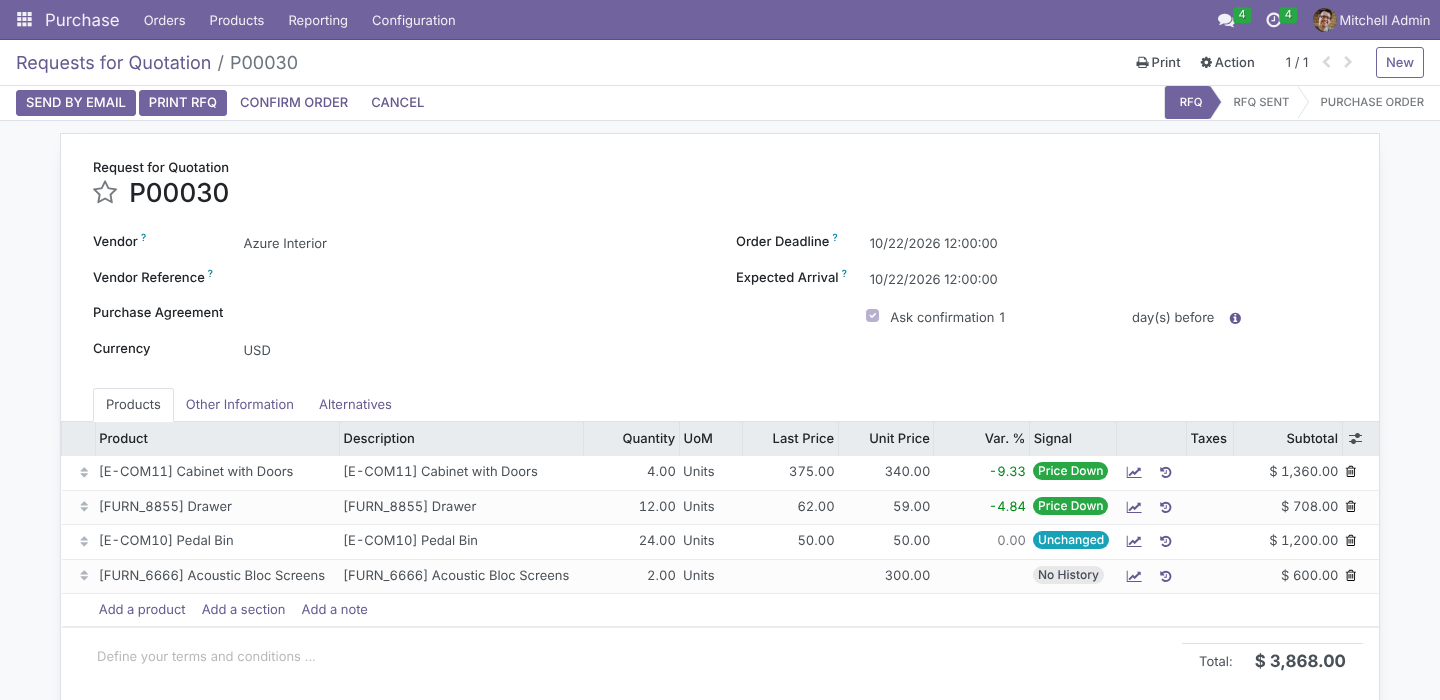
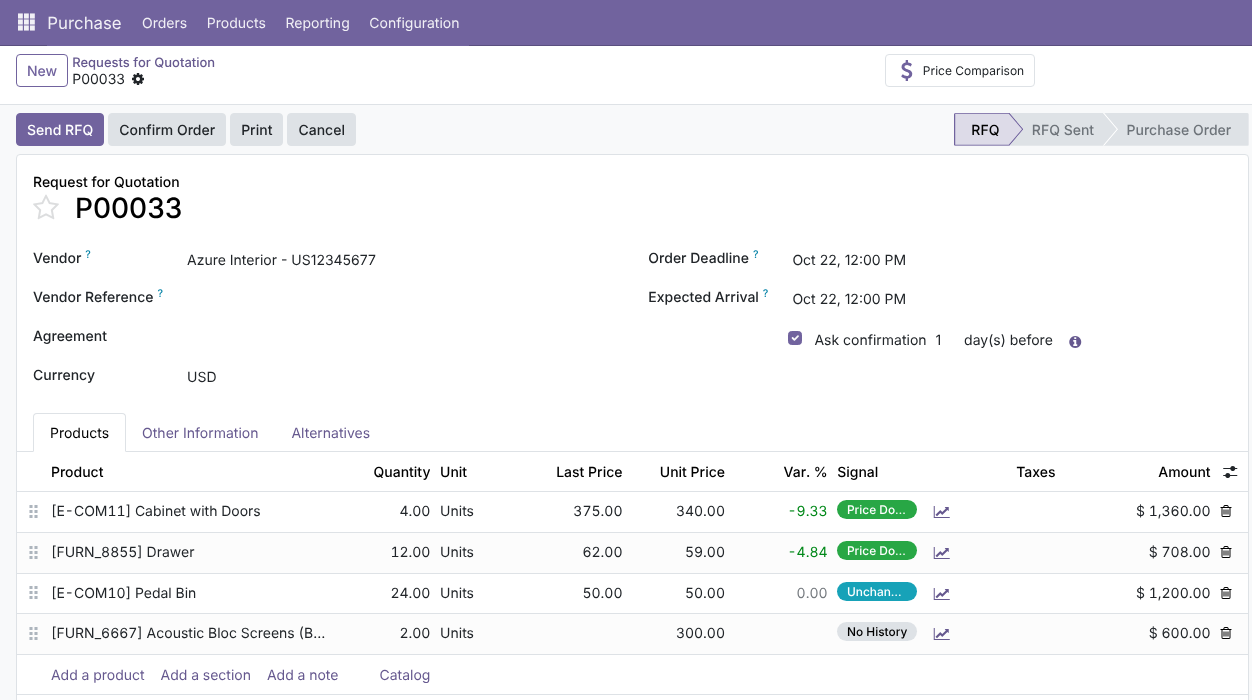
Add files via upload

diff --git a/last_purchase_price_advanced/static/description/index.html b/last_purchase_price_advanced/static/description/index.html
@@ -1,4 +1,4 @@
-<!-- Odoo Apps description page for last_purchase_price_advanced (Odoo 16.0). Inline styles only: apps.odoo.com strips <style> and <script> blocks. -->
+<!-- Odoo Apps description page for last_purchase_price_advanced (Odoo 19.0). Inline styles only: apps.odoo.com strips <style> and <script> blocks. -->
 <section style="max-width:1120px;margin:0 auto;padding:0 16px;font-family:-apple-system,BlinkMacSystemFont,'Segoe UI',Roboto,'Helvetica Neue',Arial,sans-serif;color:#2b2b33;">
 
   <!-- ============================== HERO ============================== -->
@@ -7,7 +7,7 @@
     <h1 style="font-size:40px;line-height:1.15;font-weight:700;margin:0 0 14px;color:#ffffff;">Last Purchase Price Advanced</h1>
     <p style="font-size:19px;line-height:1.55;max-width:760px;margin:0 0 24px;color:#ffffff;opacity:.95;">See the last confirmed purchase price on every RFQ line, converted to the line&rsquo;s unit of measure and currency, with the variance and a coloured up/down signal. Then measure how stable each vendor&rsquo;s prices really are with the Vendor Price Stability report in pivot, graph, Excel and PDF.</p>
     <div>
-      <span style="display:inline-block;border:1px solid rgba(255,255,255,.7);border-radius:20px;padding:6px 14px;margin:0 8px 8px 0;font-size:14px;">Odoo 16.0</span>
+      <span style="display:inline-block;border:1px solid rgba(255,255,255,.7);border-radius:20px;padding:6px 14px;margin:0 8px 8px 0;font-size:14px;">Odoo 19.0</span>
       <span style="display:inline-block;border:1px solid rgba(255,255,255,.7);border-radius:20px;padding:6px 14px;margin:0 8px 8px 0;font-size:14px;">Community &amp; Enterprise</span>
       <span style="display:inline-block;border:1px solid rgba(255,255,255,.7);border-radius:20px;padding:6px 14px;margin:0 8px 8px 0;font-size:14px;">25 automated tests</span>
       <span style="display:inline-block;border:1px solid rgba(255,255,255,.7);border-radius:20px;padding:6px 14px;margin:0 8px 8px 0;font-size:14px;">Arabic &amp; RTL</span>
@@ -29,7 +29,7 @@
   <p style="font-size:16px;color:#555;margin:0 0 18px;">Buyers negotiate better when they can see, on the line they are typing, what they paid last time.</p>
   <div style="display:flex;flex-wrap:wrap;margin:0 -10px;">
     <div style="flex:1 1 440px;margin:10px;border:1px solid #f1d6d6;background:#fff8f8;border-radius:14px;padding:24px 26px;">
-      <h3 style="font-size:19px;font-weight:700;color:#b33939;margin:0 0 12px;">In standard Odoo 16</h3>
+      <h3 style="font-size:19px;font-weight:700;color:#b33939;margin:0 0 12px;">In standard Odoo 19</h3>
       <ul style="font-size:15px;line-height:1.65;margin:0;padding-left:20px;color:#3a3a42;">
         <li>The RFQ line shows the <b>vendor pricelist</b> price, not what you actually paid on the last confirmed order.</li>
         <li>Checking the last price means leaving the RFQ and searching <b>Purchase Analysis</b> or old orders.</li>
@@ -64,7 +64,7 @@
 
   <!-- ============================== FEATURES ============================== -->
   <h2 style="font-size:28px;font-weight:700;margin:44px 0 6px;color:#2b2b33;">Features</h2>
-  <p style="font-size:16px;color:#555;margin:0 0 6px;">All screenshots were taken on Odoo 16 with Odoo&rsquo;s demo data plus 17 confirmed purchase orders from January 2025 to May 2026 (four vendors, one invoicing in EUR, pedal bins bought by the dozen) and four open RFQs.</p>
+  <p style="font-size:16px;color:#555;margin:0 0 6px;">All screenshots were taken on Odoo 19 with Odoo&rsquo;s demo data plus 17 confirmed purchase orders from January 2025 to May 2026 (four vendors, one invoicing in EUR, pedal bins bought by the dozen) and four open RFQs.</p>
 
   <div style="margin:44px 0 0;">
     <div style="font-size:13px;font-weight:700;color:#017E84;letter-spacing:1px;text-transform:uppercase;">Menus</div>
@@ -98,7 +98,7 @@
   <div style="margin:44px 0 0;">
     <div style="font-size:13px;font-weight:700;color:#017E84;letter-spacing:1px;text-transform:uppercase;">Feature 4</div>
     <h3 style="font-size:23px;font-weight:700;margin:4px 0 8px;">Compare alternative RFQs with their price history</h3>
-    <p style="font-size:15px;line-height:1.6;color:#555;margin:0 0 14px;">In <b>Alternatives &rsaquo; Compare Product Lines</b> (Purchase Agreements), each vendor&rsquo;s offer shows its own <b>Last Price</b>, <b>Var. %</b> and <b>Signal</b>, plus an optional <b>Last Vendor</b> column, so you choose the best offer knowing who raised prices.</p>
+    <p style="font-size:15px;line-height:1.6;color:#555;margin:0 0 14px;">In <b>Alternatives &rsaquo; Compare Product Lines</b> (Purchase Agreements; in Odoo 18 and later the <b>Alternatives</b> tab appears once <b>Purchase Alternatives</b> is enabled in Purchase settings), each vendor&rsquo;s offer shows its own <b>Last Price</b>, <b>Var. %</b> and <b>Signal</b>, plus an optional <b>Last Vendor</b> column, so you choose the best offer knowing who raised prices.</p>
     <img src="lpp_11_compare.png" alt="Compare Product Lines view with last price and signal per vendor" style="width:100%;border:1px solid #e1e1e6;border-radius:10px;box-shadow:0 6px 24px rgba(30,30,60,.10);"/>
   </div>
 
@@ -203,7 +203,7 @@
   <h2 style="font-size:28px;font-weight:700;margin:44px 0 6px;color:#2b2b33;">Technical details</h2>
   <table style="width:100%;border-collapse:collapse;font-size:15px;table-layout:fixed;overflow-wrap:anywhere;">
     <tbody>
-      <tr style="border-bottom:1px solid #eee;"><td style="padding:10px 14px;width:34%;color:#777;">Odoo version</td><td style="padding:10px 14px;">16.0, Community and Enterprise</td></tr>
+      <tr style="border-bottom:1px solid #eee;"><td style="padding:10px 14px;width:34%;color:#777;">Odoo version</td><td style="padding:10px 14px;">19.0, Community and Enterprise</td></tr>
       <tr style="border-bottom:1px solid #eee;background:#fafafa;"><td style="padding:10px 14px;width:34%;color:#777;">Depends on</td><td style="padding:10px 14px;overflow-wrap:anywhere;"><code>purchase</code>, <code>purchase_requisition</code></td></tr>
       <tr style="border-bottom:1px solid #eee;"><td style="padding:10px 14px;width:34%;color:#777;">Python dependency</td><td style="padding:10px 14px;overflow-wrap:anywhere;"><code>xlsxwriter</code> (already in Odoo&rsquo;s requirements)</td></tr>
       <tr style="border-bottom:1px solid #eee;background:#fafafa;"><td style="padding:10px 14px;width:34%;color:#777;">Menus</td><td style="padding:10px 14px;">Purchase &rsaquo; Reporting &rsaquo; Vendor Price Stability; Purchase &rsaquo; Reporting &rsaquo; Vendor Price Stability (PDF / Excel)</td></tr>

diff --git a/last_purchase_price_advanced/models/lpp_vendor_price_report.py b/last_purchase_price_advanced/models/lpp_vendor_price_report.py
@@ -1,5 +1,6 @@
 # -*- coding: utf-8 -*-
 from odoo import api, fields, models, tools
+from odoo.tools import SQL
 
 TRENDS = [
     ('first', 'First Purchase'),
@@ -33,23 +34,23 @@ class LppVendorPriceReport(models.Model):
     user_id = fields.Many2one('res.users', 'Buyer', readonly=True)
 
     order_price_unit = fields.Float('Order Unit Price', digits='Product Price',
-                                    readonly=True, group_operator='avg')
+                                    readonly=True, aggregator='avg')
     currency_rate = fields.Float('Currency Rate', digits=(16, 6),
-                                 readonly=True, group_operator='avg')
+                                 readonly=True, aggregator='avg')
     unit_price = fields.Float('Avg Unit Price', digits='Product Price',
-                              readonly=True, group_operator='avg')
+                              readonly=True, aggregator='avg')
     min_price = fields.Float('Min Unit Price', digits='Product Price',
-                             readonly=True, group_operator='min')
+                             readonly=True, aggregator='min')
     max_price = fields.Float('Max Unit Price', digits='Product Price',
-                             readonly=True, group_operator='max')
+                             readonly=True, aggregator='max')
     previous_price = fields.Float('Previous Unit Price', digits='Product Price',
-                                  readonly=True, group_operator='avg')
+                                  readonly=True, aggregator='avg')
     price_change = fields.Float('Price Change', digits='Product Price',
-                                readonly=True, group_operator='avg')
+                                readonly=True, aggregator='avg')
     variance_pct = fields.Float('Variance (%)', digits=(16, 2),
-                                readonly=True, group_operator='avg')
+                                readonly=True, aggregator='avg')
     abs_variance_pct = fields.Float('Avg Fluctuation (%)', digits=(16, 2),
-                                    readonly=True, group_operator='avg')
+                                    readonly=True, aggregator='avg')
     qty = fields.Float('Quantity', digits='Product Unit of Measure',
                        readonly=True)
     amount = fields.Monetary('Purchased Amount', readonly=True)
@@ -79,25 +80,25 @@ class LppVendorPriceReport(models.Model):
                        pol.price_unit                             AS order_price_unit,
                        COALESCE(NULLIF(po.currency_rate, 0), 1.0) AS currency_rate,
                        COALESCE(c.lpp_neutral_band, 0.0)          AS neutral_band,
-                       -- UoM factors of "bigger" units are stored as 1/n
-                       -- (e.g. 0.0833.. for a dozen): round to 6 decimals so
-                       -- 600/dozen and 50/unit compare as the same price.
+                       -- Odoo 19: uom_uom.factor is the absolute quantity in
+                       -- the reference unit (Units = 1, Dozens = 12). Round to
+                       -- 6 decimals so 600/dozen and 50/unit compare equal.
                        ROUND(pol.product_qty::numeric
-                             / lu.factor::numeric
-                             * pu.factor::numeric, 6)             AS qty,
+                             * lu.factor::numeric
+                             / pu.factor::numeric, 6)             AS qty,
                        ROUND(pol.price_unit::numeric
                              / COALESCE(NULLIF(po.currency_rate, 0), 1.0)::numeric
-                             * lu.factor::numeric
-                             / pu.factor::numeric, 6)             AS unit_price
+                             * pu.factor::numeric
+                             / lu.factor::numeric, 6)             AS unit_price
                   FROM purchase_order_line pol
                   JOIN purchase_order po ON po.id = pol.order_id
                   JOIN res_company c ON c.id = po.company_id
                   JOIN res_partner rp ON rp.id = po.partner_id
                   JOIN product_product pp ON pp.id = pol.product_id
                   JOIN product_template pt ON pt.id = pp.product_tmpl_id
-                  JOIN uom_uom lu ON lu.id = pol.product_uom
+                  JOIN uom_uom lu ON lu.id = pol.product_uom_id
                   JOIN uom_uom pu ON pu.id = pt.uom_id
-                 WHERE po.state IN ('purchase', 'done')
+                 WHERE po.state = 'purchase'
                    AND pol.display_type IS NULL
                    AND pol.product_qty > 0
                    AND pol.price_unit > 0
@@ -155,13 +156,13 @@ class LppVendorPriceReport(models.Model):
         classify each pair by direction and stability."""
         # the view reads purchase tables directly: push pending ORM writes
         self.env.flush_all()
-        query = self._where_calc(domain)
-        self._apply_ir_rules(query, 'read')
-        from_clause, where_clause, where_params = query.get_sql()
-        where_sql = where_clause and ('WHERE %s' % where_clause) or ''
+        # Odoo 19: _search() returns a Query with the record rules applied
+        # (and no ORDER BY when no order is given).
+        query = self._search(domain)
         tbl = '"%s"' % self._table
-        self.env.cr.execute("""
-            SELECT {t}.company_id, {t}.partner_id, {t}.product_id,
+        query.groupby = SQL("{t}.company_id, {t}.partner_id, {t}.product_id".format(t=tbl))
+        self.env.cr.execute(query.select(SQL("""
+                   {t}.company_id, {t}.partner_id, {t}.product_id,
                    MIN({t}.currency_id)                      AS currency_id,
                    MIN({t}.uom_id)                           AS uom_id,
                    COUNT(*)                                  AS nbr,
@@ -180,10 +181,7 @@ class LppVendorPriceReport(models.Model):
                    SUM({t}.qty)                              AS qty,
                    SUM({t}.amount)                           AS amount,
                    AVG({t}.abs_variance_pct)                 AS avg_fluctuation
-              FROM {from_clause}
-              {where}
-          GROUP BY {t}.company_id, {t}.partner_id, {t}.product_id
-        """.format(t=tbl, from_clause=from_clause, where=where_sql), where_params)
+        """.format(t=tbl))))
         raw_rows = self.env.cr.dictfetchall()
 
         partners = self.env['res.partner'].browse({r['partner_id'] for r in raw_rows})

diff --git a/last_purchase_price_advanced/models/purchase_order_line.py b/last_purchase_price_advanced/models/purchase_order_line.py
@@ -25,14 +25,14 @@ _LPP_HISTORY_QUERY = """
                po.partner_id                            AS partner_id,
                pol.id                                   AS line_id,
                pol.price_unit                           AS price_unit,
-               pol.product_uom                          AS uom_id,
+               pol.product_uom_id                       AS uom_id,
                po.currency_id                           AS currency_id,
                po.currency_rate                         AS currency_rate,
                COALESCE(po.date_approve, po.date_order) AS ref_date
           FROM purchase_order_line pol
           JOIN purchase_order po ON po.id = pol.order_id
           JOIN res_partner rp ON rp.id = po.partner_id
-         WHERE po.state IN ('purchase', 'done')
+         WHERE po.state = 'purchase'
            AND pol.display_type IS NULL
            AND pol.product_qty > 0
            AND pol.price_unit > 0
@@ -107,7 +107,7 @@ class PurchaseOrderLine(models.Model):
     def init(self):
         super().init()
         create_index(
-            self._cr, 'purchase_order_line_lpp_product_order_idx',
+            self.env.cr, 'purchase_order_line_lpp_product_order_idx',
             self._table, ['product_id', 'order_id'],
             where='display_type IS NULL')
 
@@ -153,7 +153,7 @@ class PurchaseOrderLine(models.Model):
             return {}
         self.env['purchase.order.line'].flush_model([
             'order_id', 'product_id', 'product_qty', 'price_unit',
-            'product_uom', 'display_type'])
+            'product_uom_id', 'display_type'])
         self.env['purchase.order'].flush_model([
             'state', 'company_id', 'partner_id', 'currency_id',
             'currency_rate', 'date_order', 'date_approve'])
@@ -198,12 +198,12 @@ class PurchaseOrderLine(models.Model):
             current_rate = float(order.currency_rate or 1.0)
             price = price / hist_rate * current_rate
         src_uom = uom_by_id.get(row['uom_id'])
-        if src_uom and self.product_uom and src_uom != self.product_uom:
-            price = src_uom._compute_price(price, self.product_uom)
+        if src_uom and self.product_uom_id and src_uom != self.product_uom_id:
+            price = src_uom._compute_price(price, self.product_uom_id)
         return price
 
     @api.depends(
-        'display_type', 'product_id', 'product_uom', 'price_unit',
+        'display_type', 'product_id', 'product_uom_id', 'price_unit',
         'order_id.partner_id', 'order_id.currency_id',
         'order_id.currency_rate', 'order_id.company_id',
         'order_id.company_id.lpp_tracking_enabled',
@@ -295,7 +295,7 @@ class PurchaseOrderLine(models.Model):
             'name': _('Price Stability: %s', self.product_id.display_name),
             'domain': domain,
             'views': [
-                (self.env.ref('last_purchase_price_advanced.lpp_vendor_price_report_view_tree').id, 'tree'),
+                (self.env.ref('last_purchase_price_advanced.lpp_vendor_price_report_view_tree').id, 'list'),
                 (self.env.ref('last_purchase_price_advanced.lpp_vendor_price_report_view_graph').id, 'graph'),
                 (self.env.ref('last_purchase_price_advanced.lpp_vendor_price_report_view_pivot').id, 'pivot'),
             ],

diff --git a/last_purchase_price_advanced/tests/test_vendor_price_report.py b/last_purchase_price_advanced/tests/test_vendor_price_report.py
@@ -33,6 +33,9 @@ class TestVendorPriceReport(LppCommon):
                                    ('product_id', '=', self.product.id)], order='date, id')
 
     def _rows(self, **wizard_vals):
+        # Scope to the test category: demo databases (Odoo 17 loads demo
+        # purchase orders by default) must not leak into the assertions.
+        wizard_vals.setdefault('categ_ids', [(6, 0, self.categ.ids)])
         wizard = self.env['lpp.stability.wizard'].create(wizard_vals)
         return wizard, {(r['partner'], r['product']): r for r in wizard._get_stability_rows()}
 
@@ -56,12 +59,13 @@ class TestVendorPriceReport(LppCommon):
 
     def test_03_pivot_aggregates(self):
         self.env.flush_all()
-        groups = self.Report.read_group(
+        groups = self.Report._read_group(
             [('product_id', '=', self.product.id), ('partner_id', '=', self.vendor_a.id)],
-            ['unit_price:avg', 'min_price:min', 'max_price:max', 'nbr_purchases:sum', 'qty:sum'],
-            ['partner_id'])
+            ['partner_id'],
+            ['unit_price:avg', 'min_price:min', 'max_price:max', 'nbr_purchases:sum', 'qty:sum'])
         self.assertEqual(len(groups), 1)
-        group = groups[0]
+        group = dict(zip(['partner_id', 'unit_price', 'min_price', 'max_price', 'nbr_purchases', 'qty'],
+                         groups[0]))
         self.assertAlmostEqual(group['unit_price'], (100 + 110 + 99) / 3.0, places=4)
         self.assertAlmostEqual(group['min_price'], 99.0, places=4)
         self.assertAlmostEqual(group['max_price'], 110.0, places=4)
@@ -112,7 +116,8 @@ class TestVendorPriceReport(LppCommon):
             self.company.write({'lpp_stable_cv': 20.0, 'lpp_volatile_cv': 5.0})
 
     def test_07_excel_export(self):
-        wizard = self.env['lpp.stability.wizard'].create({})
+        wizard = self.env['lpp.stability.wizard'].create({
+            'categ_ids': [(6, 0, self.categ.ids)]})
         action = wizard.action_export_xlsx()
         self.assertEqual(action['type'], 'ir.actions.act_url')
         content = base64.b64decode(wizard.excel_file)
@@ -164,7 +169,7 @@ class TestVendorPriceReport(LppCommon):
         user = self.env['res.users'].create({
             'name': 'LPP Buyer', 'login': 'lpp_buyer',
             'company_id': other.id, 'company_ids': [(6, 0, other.ids)],
-            'groups_id': [(6, 0, [self.env.ref('purchase.group_purchase_manager').id])],
+            'group_ids': [(6, 0, [self.env.ref('purchase.group_purchase_manager').id])],
         })
         self.env.flush_all()
         self.assertFalse(self.Report.with_user(user).search([]),

diff --git a/last_purchase_price_advanced/tests/common.py b/last_purchase_price_advanced/tests/common.py
@@ -51,7 +51,6 @@ class LppCommon(TransactionCase):
             'type': 'consu',
             'categ_id': cls.categ.id,
             'uom_id': cls.uom_unit.id,
-            'uom_po_id': cls.uom_unit.id,
             'purchase_ok': True,
         }, **vals))
 
@@ -62,12 +61,12 @@ class LppCommon(TransactionCase):
         order_lines = []
         for spec in lines:
             product, qty, price = spec[:3]
-            uom = spec[3] if len(spec) > 3 else product.uom_po_id
+            uom = spec[3] if len(spec) > 3 else product.uom_id
             order_lines.append((0, 0, {
                 'product_id': product.id,
                 'name': product.name,
                 'product_qty': qty,
-                'product_uom': uom.id,
+                'product_uom_id': uom.id,
                 'price_unit': price,
                 'date_planned': date,
             }))

diff --git a/last_purchase_price_advanced/tests/test_last_purchase_price.py b/last_purchase_price_advanced/tests/test_last_purchase_price.py
@@ -170,7 +170,7 @@ class TestLastPurchasePrice(LppCommon):
     def test_13_large_order_single_query(self):
         products = self.env['product.product'].create([{
             'name': 'LPP Bulk %s' % i, 'type': 'consu', 'categ_id': self.categ.id,
-            'uom_id': self.uom_unit.id, 'uom_po_id': self.uom_unit.id,
+            'uom_id': self.uom_unit.id,
         } for i in range(300)])
         self._make_po(self.vendor_a, [(p, 1, 10.0 + i) for i, p in enumerate(products)])
         draft = self._make_po(self.vendor_a, [(p, 1, 20.0) for p in products], confirm=False)

diff --git a/last_purchase_price_advanced/__manifest__.py b/last_purchase_price_advanced/__manifest__.py
@@ -1,7 +1,7 @@
 # -*- coding: utf-8 -*-
 {
     'name': 'Last Purchase Price Advanced',
-    'version': '16.0.1.0.0',
+    'version': '19.0.1.0.0',
     'category': 'Inventory/Purchase',
     'summary': 'Last purchase price on PO lines with UoM / multi-currency '
                'normalization, variance signals and a Vendor Price Stability '

diff --git a/last_purchase_price_advanced/README.md b/last_purchase_price_advanced/README.md
@@ -1,4 +1,4 @@
-# Last Purchase Price Advanced (Odoo 16 Community & Enterprise)
+# Last Purchase Price Advanced (Odoo 19 Community & Enterprise)
 
 Price intelligence for purchasing: every PO line shows the last confirmed
 purchase price, normalized to the line's unit of measure and currency, with a
